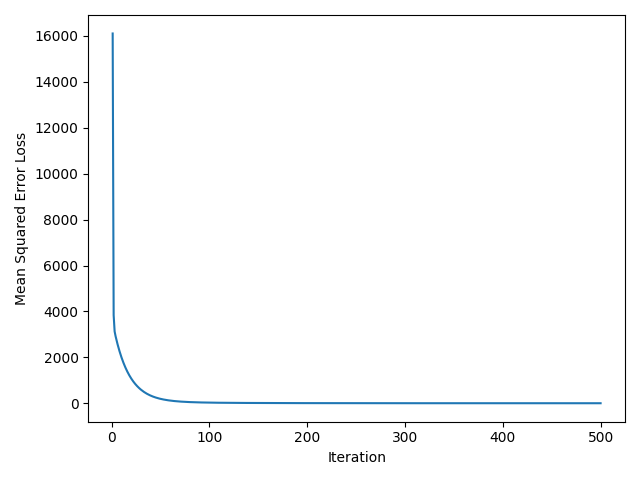
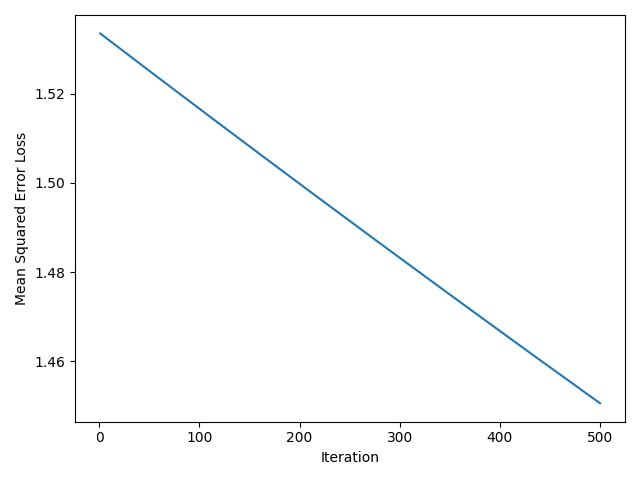
課題・考察2

diff --git a/experiment/second_sem/machine_learning/02_perceptron/scripts/ex_02_22059.py b/experiment/second_sem/machine_learning/02_perceptron/scripts/ex_02_22059.py
@@ -168,13 +168,12 @@ def main():
     x = data[:, :-1]
     t = data[:, -1].reshape(-1, 1)
 
-
     #[ASSIGNMENT]正規化
     x = x/np.max(x, axis = 0) 
     t = t/np.max(t)
-    
+
     # 学習率
-    learning_rate = 0.01
+    learning_rate = 0.0000001
 
     # 単純パーセプトロンのインスタンスを生成
     perceptron = Perceptron(x.shape[1], 1, learning_rate=learning_rate)
